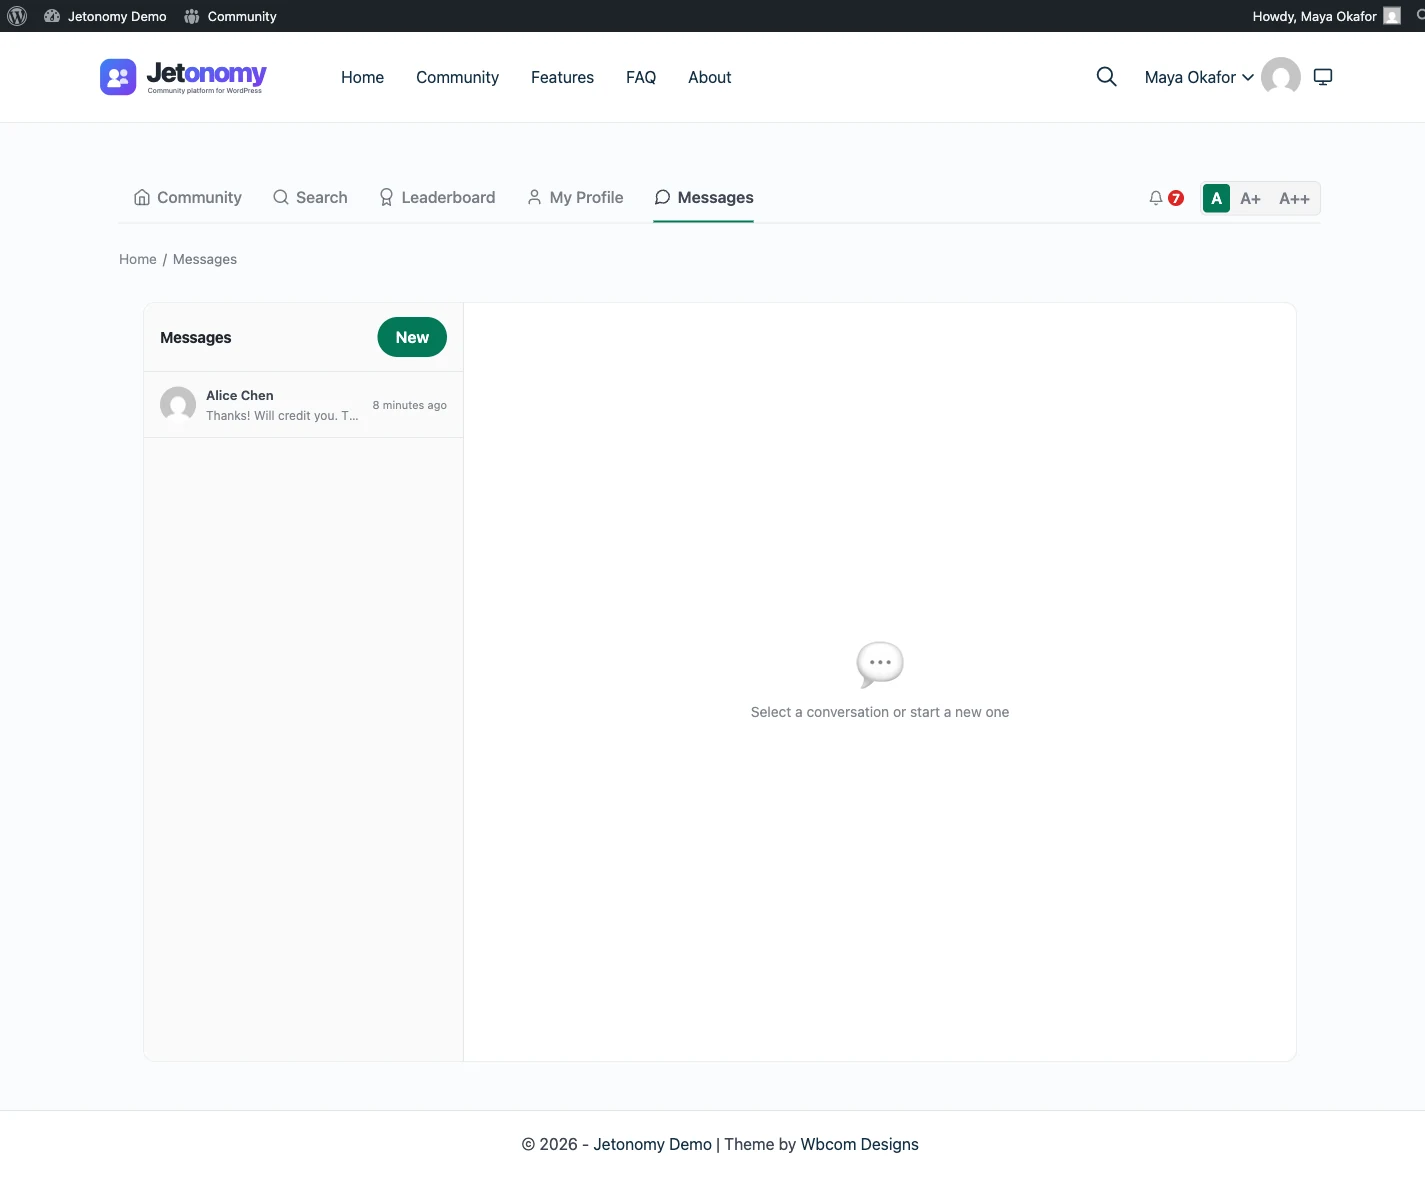
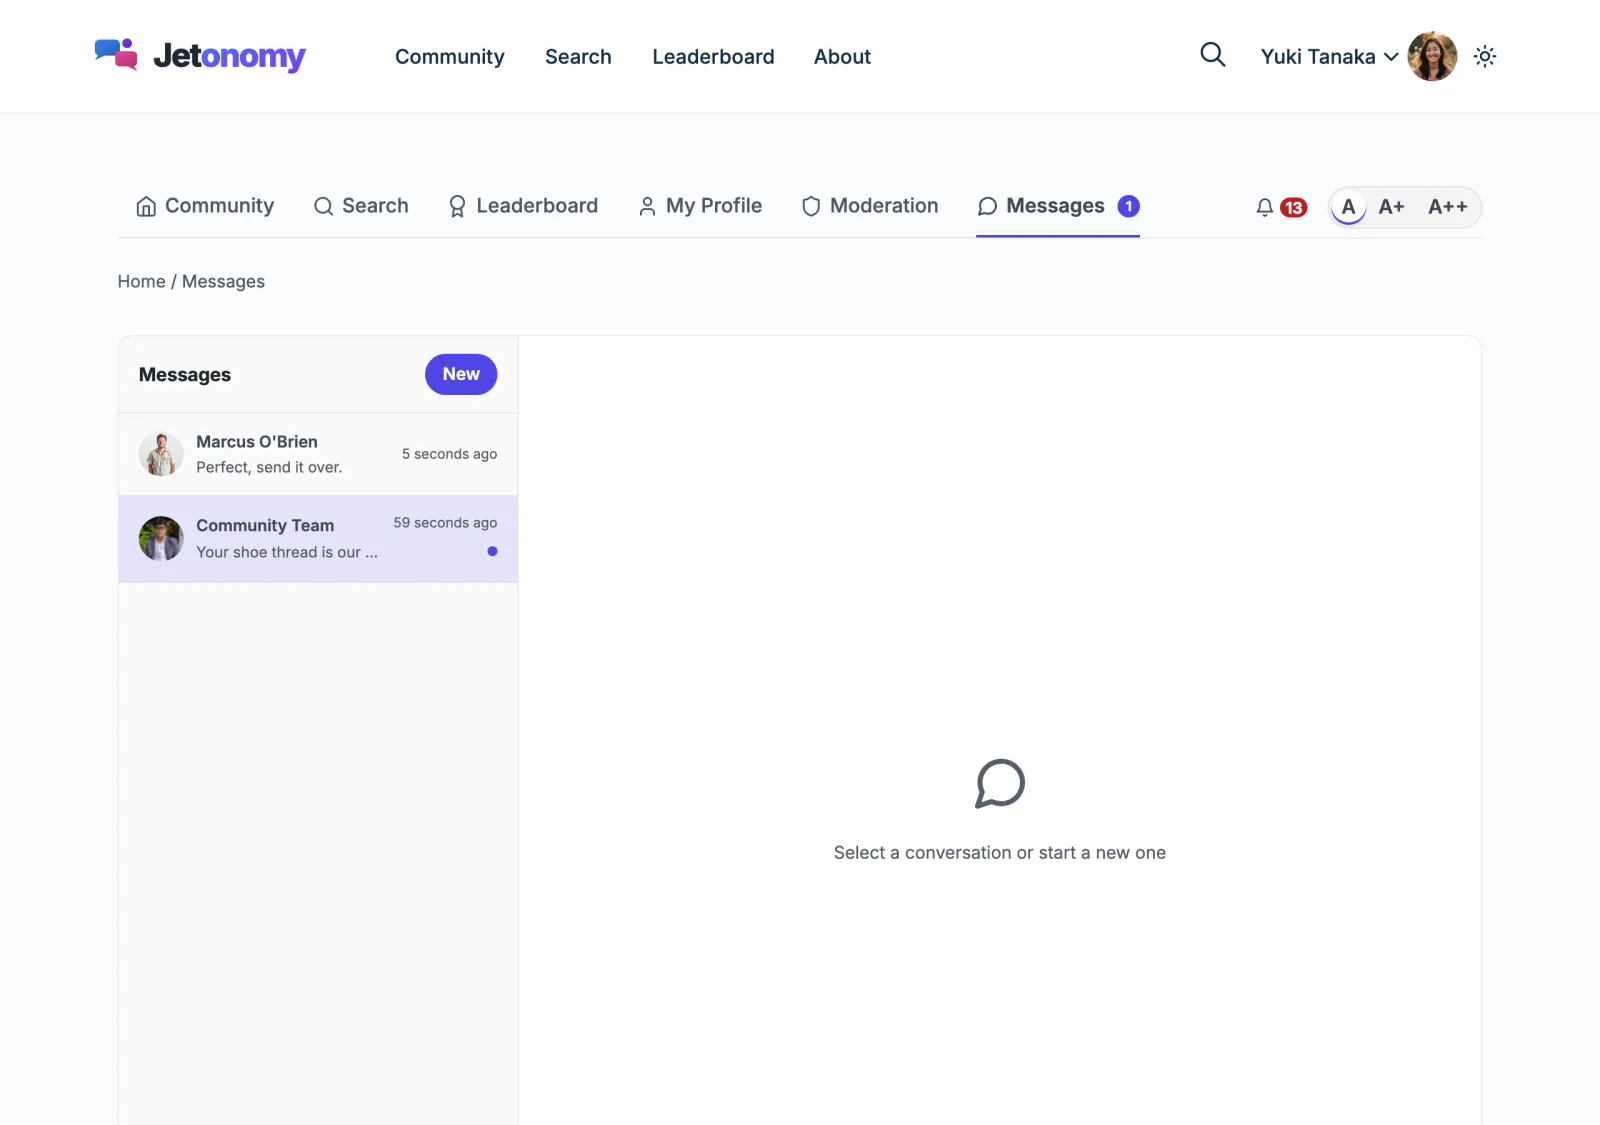
Docs: polls, reactions and messages on a Jetonomy-only site (#62)
A voted poll, reaction chips on a topic and its replies, the Messages
inbox and an open conversation, taken on the standalone forum with real
activity. Captions say what each image shows.

diff --git a/docs/website/pro-features/02-private-messaging.md b/docs/website/pro-features/02-private-messaging.md
@@ -4,7 +4,7 @@ Let members send direct messages to each other - one-on-one or in small groups -
 
 > **PRO** - This feature requires [Jetonomy Pro](https://wbcomdesigns.com/downloads/jetonomy-pro/).
 
-![Messages inbox showing conversation list](../images/pro-messages-list.webp)
+![The Messages inbox with the conversation list on the left](../images/pro-messages-list.webp)
 ## What You Will Learn
 
 - How to enable Private Messaging
@@ -21,7 +21,7 @@ When members can message each other directly, your community becomes a platform 
 
 Private Messaging adds a dedicated inbox at `/community/messages/`. Members can start a new conversation with any other member, or create a group conversation with up to 20 participants. Each conversation is a persistent thread - messages appear in chronological order, and new messages are loaded automatically via polling.
 
-![Single conversation thread view](../images/pro-message-thread.webp)
+![A conversation open in Messages, with the thread on the right and the reply box below](../images/pro-message-thread.webp)
 ## Enabling Private Messaging
 
 1. Go to **Jetonomy → Extensions** in your WordPress admin.

diff --git a/docs/website/pro-features/03-polls.md b/docs/website/pro-features/03-polls.md
@@ -55,7 +55,7 @@ Members who have not voted see the options. Members who have voted see the live 
 
 Results display as horizontal percentage bars with the option label, the percentage, and the raw vote count. Bars fill in proportion to the leading option.
 
-![Voted poll results with horizontal percentage bars, each option's percentage and raw vote count, and the total vote tally below](../images/pro-polls-results.webp)
+![A poll on a topic after voting: each option as a bar with its percentage, and the total number of votes below](../images/pro-polls-results.webp)
 The total vote count appears below the bar chart. If the poll has a close date, a countdown shows how much time remains.
 
 ## Closing a Poll

diff --git a/docs/website/pro-features/01-reactions.md b/docs/website/pro-features/01-reactions.md
@@ -4,7 +4,7 @@ Add expressive emoji reactions to every post and reply - so members can respond 
 
 > **PRO** - This feature requires [Jetonomy Pro](https://wbcomdesigns.com/downloads/jetonomy-pro/).
 
-![Reaction chips below a community post](../images/pro-reactions.webp)
+![Reaction chips with counts under a topic and under each reply, next to the React button](../images/pro-reactions.webp)
 ## What You Will Learn
 
 - How to enable Reactions for your community
